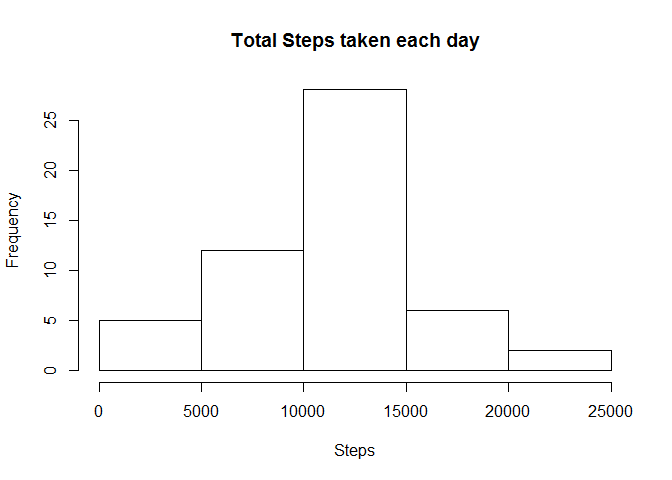
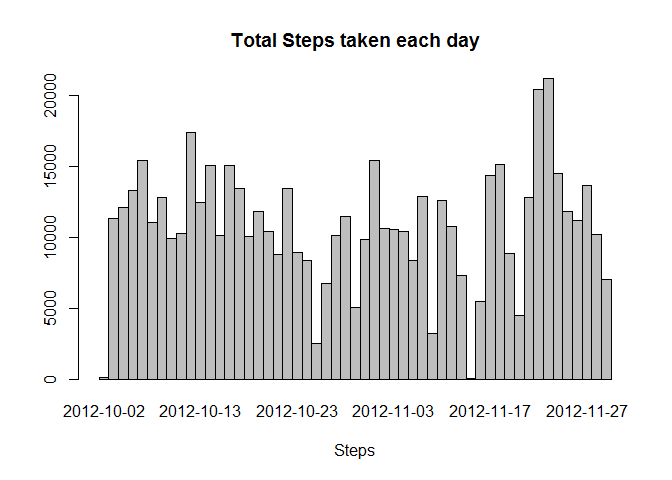
Commit Done

diff --git a/PA1_template.html b/PA1_template.html
@@ -129,8 +129,8 @@ data1$date &lt;- as.Date(data1$date, &quot;%Y-%m-%d&quot;)
 #Histogram of total steps taken each day
 
 sum_agg &lt;- aggregate(steps ~ date, data1[!is.na(data1$steps),], FUN = sum)
-hist(sum_agg$steps, main = &quot;Total Steps taken each day&quot;, xlab = &quot;Steps&quot;)</code></pre>
[1 lines of base64/hex data omitted]
+barplot(sum_agg$steps, width = 1, names.arg = sum_agg$date, space = 0, main = &quot;Total Steps taken each day&quot;, xlab = &quot;Steps&quot;)</code></pre>
[1 lines of base64/hex data omitted]
 </div>
 <div id="what-is-mean-total-number-of-steps-taken-per-day" class="section level2">
 <h2>What is mean total number of steps taken per day?</h2>
@@ -272,8 +272,15 @@ mean_steps &lt;- aggregate(steps ~ interval, data1[!is.na(data1$steps),], FUN = 
 data1[val, 1] &lt;- mean_steps[match(data1[val, 3], mean_steps$interval), 2]
 
 #Hisatogram of total steps taken each day
-hist(data1$steps, main = &quot;Total Steps taken each day&quot;, xlab = &quot;Steps&quot;)</code></pre>
[1 lines of base64/hex data omitted]
+sum_agg &lt;- aggregate(steps ~ date, data1[!is.na(data1$steps),], FUN = sum)
+barplot(sum_agg$steps, width = 1, names.arg = sum_agg$date, space = 0, main = &quot;Total Steps taken each day&quot;, xlab = &quot;Steps&quot;)</code></pre>
[1 lines of base64/hex data omitted]
+</div>
+<div id="are-there-differences-in-activity-patterns-between-weekdays-and-weekends" class="section level2">
+<h2>Are there differences in activity patterns between weekdays and weekends?</h2>
+<pre class="r"><code>data1$dayname &lt;- weekdays(data1$date)
+
+par(mfrow = c(1,2))</code></pre>
 </div>
 
 

diff --git a/PA1_template.md b/PA1_template.md
@@ -12,7 +12,7 @@ data1$date <- as.Date(data1$date, "%Y-%m-%d")
 #Histogram of total steps taken each day
 
 sum_agg <- aggregate(steps ~ date, data1[!is.na(data1$steps),], FUN = sum)
-hist(sum_agg$steps, main = "Total Steps taken each day", xlab = "Steps")
+barplot(sum_agg$steps, width = 1, names.arg = sum_agg$date, space = 0, main = "Total Steps taken each day", xlab = "Steps")
 ```
 
 ![](PA1_template_files/figure-html/unnamed-chunk-1-1.png)<!-- -->
@@ -181,8 +181,17 @@ mean_steps <- aggregate(steps ~ interval, data1[!is.na(data1$steps),], FUN = mea
 data1[val, 1] <- mean_steps[match(data1[val, 3], mean_steps$interval), 2]
 
 #Hisatogram of total steps taken each day
-hist(data1$steps, main = "Total Steps taken each day", xlab = "Steps")
+sum_agg <- aggregate(steps ~ date, data1[!is.na(data1$steps),], FUN = sum)
+barplot(sum_agg$steps, width = 1, names.arg = sum_agg$date, space = 0, main = "Total Steps taken each day", xlab = "Steps")
 ```
 
 ![](PA1_template_files/figure-html/unnamed-chunk-5-1.png)<!-- -->
+
 ## Are there differences in activity patterns between weekdays and weekends?
+
+
+```r
+data1$dayname <- weekdays(data1$date)
+
+par(mfrow = c(1,2))
+```
